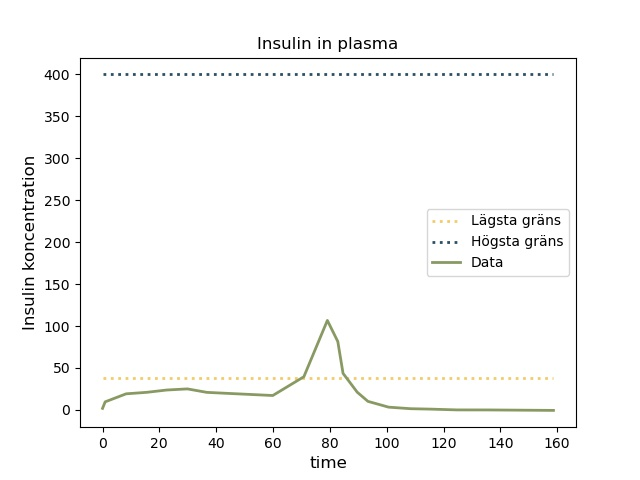
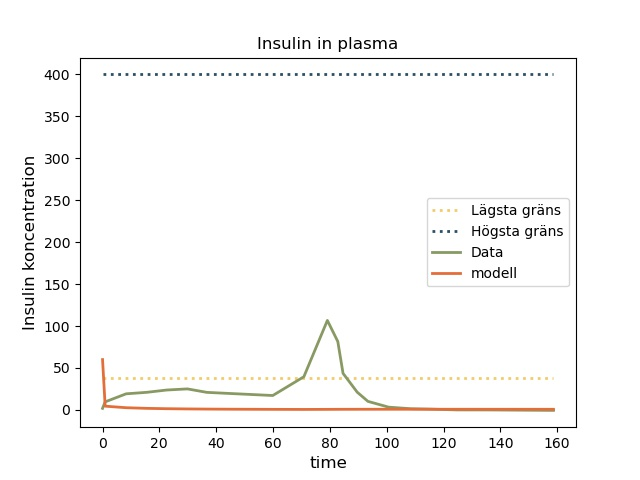
file change

Changed region(s): [[0.6562, 0.4062, 0.875, 0.5938], [0.1562, 0.75, 0.875, 0.875]]

diff --git a/optimering/plot_open_loop.py b/optimering/plot_open_loop.py
@@ -99,7 +99,8 @@ plot1 = plt.figure(1)
 line1, = plt.plot(xG_coordinates, yG1_coordinates, linestyle=":", linewidth=lw, color=cb_palette2[1])
 line2, = plt.plot(xG_coordinates, yG2_coordinates, linestyle=":", linewidth=lw, color=cb_palette2[3])
 line3, = plt.plot(data_G['tid'].values, data_G['konc'].values, label = 'Glukos', linestyle="-", linewidth=lw, color=cb_palette2[2])
-plt.legend((line1, line2, line3), ("Lägsta gräns", "Högsta gräns", "Data"))
+line4, = plt.plot(data_G['tid'].values, G_model, label = 'Glukos', linestyle="-", linewidth=lw, color=cb_palette2[7])
+plt.legend((line1, line2, line3, line4), ("Lägsta gräns", "Högsta gräns", "Data","modell"))
 plt.xlabel("time", fontsize=12), plt.ylabel("Glukos koncentration", fontsize=12)
 plt.title("Glucose in plasma")
 
@@ -119,7 +120,8 @@ plot1 = plt.figure(2)
 line1, = plt.plot(xI_coordinates, yI1_coordinates, linestyle=":", linewidth=lw, color=cb_palette2[1])
 line2, = plt.plot(xI_coordinates, yI2_coordinates, linestyle=":", linewidth=lw, color=cb_palette2[3])
 line3, = plt.plot(data_I['tid'].values, data_I['conc'].values, label = 'Insulin', linestyle="-", linewidth=lw, color=cb_palette2[4])
-plt.legend((line1, line2, line3), ("Lägsta gräns", "Högsta gräns", "Data"))
+line4, = plt.plot(data_I['tid'].values, I_model, label = 'Insulin', linestyle="-", linewidth=lw, color=cb_palette2[7])
+plt.legend((line1, line2, line3, line4), ("Lägsta gräns", "Högsta gräns", "Data","modell"))
 plt.xlabel("time", fontsize=12), plt.ylabel("Insulin koncentration", fontsize=12)
 plt.title("Insulin in plasma")
 
